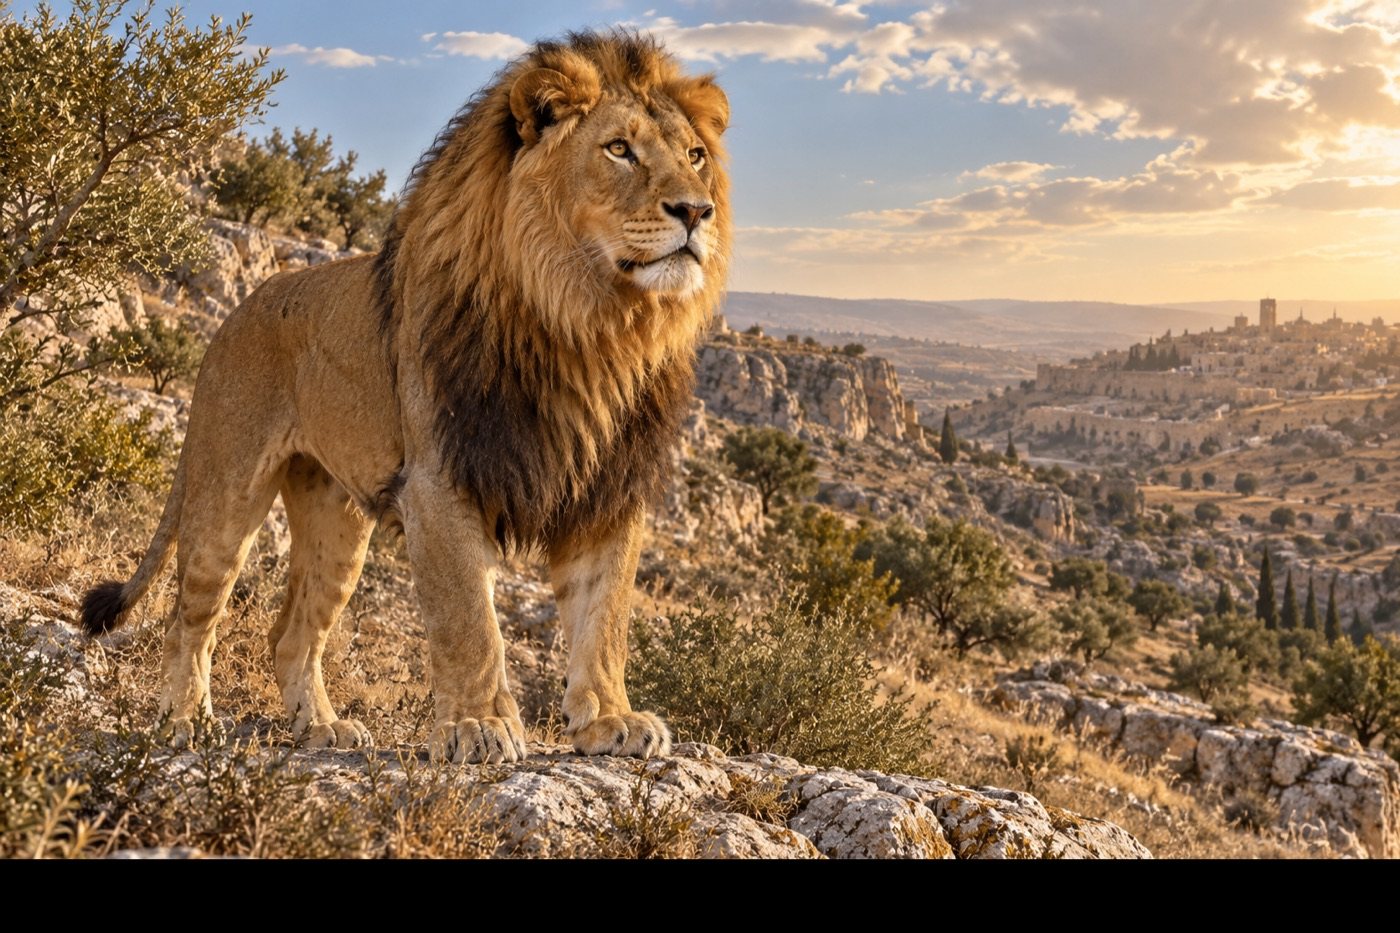
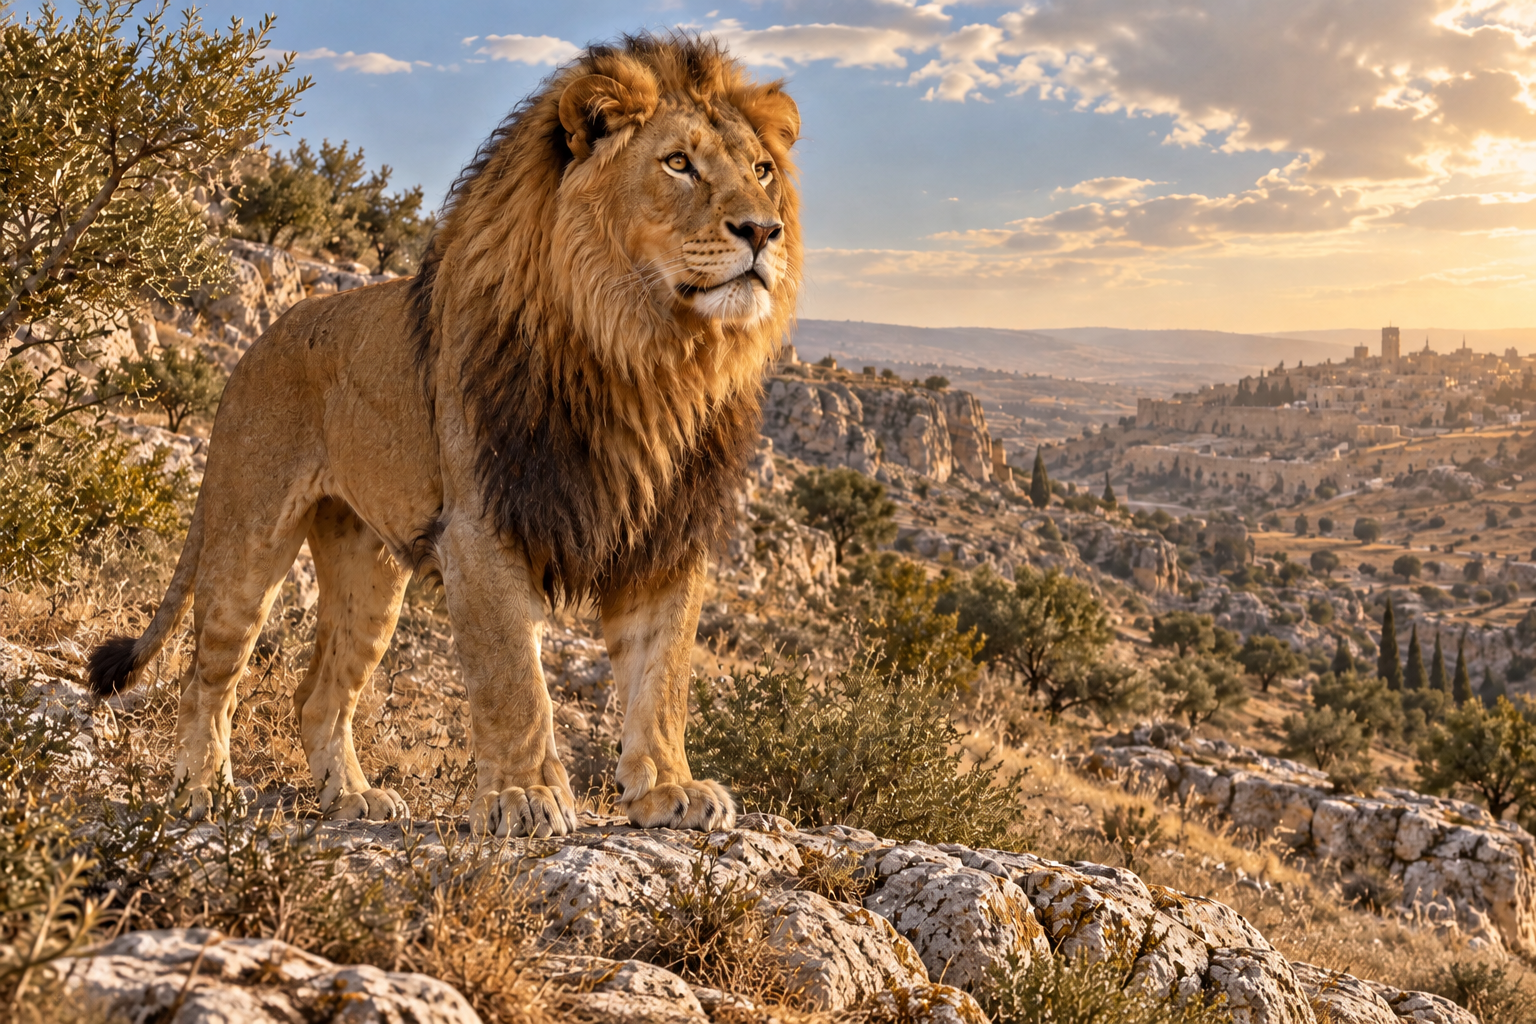
Add collateral branches to genealogy

diff --git a/index.html b/index.html
@@ -803,6 +803,7 @@
     .extinct-category-title { margin: 0 0 .8rem; color: #24364b; font-size: clamp(1.2rem, 2.5vw, 1.7rem); letter-spacing: -.025em; }
     .extinct-card { min-width: 0; overflow: hidden; border: 1px solid var(--border); border-radius: 16px; background: rgba(255,255,255,.97); box-shadow: 0 9px 22px rgba(26,48,77,.07); }
     .extinct-card-image { display: block; width: 100%; aspect-ratio: 16 / 10; object-fit: contain; background: #e7edf4; }
+    #ascended-view .extinct-card-image { height: auto; aspect-ratio: auto; object-fit: contain; object-position: center; }
     .bilirubin-figure { max-width: 390px; margin: .8rem auto; padding: .45rem; border: 1px solid var(--border); border-radius: 12px; background: #f7f9f7; }
     .bilirubin-figure img { display: block; width: 100%; height: auto; }
     .bilirubin-figure figcaption { margin-top: .35rem; color: var(--text2); font-size: .72rem; line-height: 1.4; }
@@ -873,6 +874,15 @@
     .genealogy-jesus { width: min(330px, 100%); display: flex; flex-direction: column; justify-content: center; text-align: center; background: linear-gradient(145deg, #fff8ed, #fff); border-color: #e9bda6; }
     .genealogy-jesus h3 { font-size: 1.45rem; color: #7e391f; }
     .genealogy-jesus .genealogy-name { align-self: center; font-size: .82rem; }
+    .genealogy-sibling-groups { max-width: 1120px; margin: .75rem auto 2rem; padding: 1.15rem; border: 1px solid var(--border); border-radius: var(--radius); background: rgba(255,255,255,.94); box-shadow: var(--shadow); }
+    .genealogy-sibling-groups > h3 { margin: 0; font-size: 1.25rem; }
+    .genealogy-sibling-intro { margin: .35rem 0 1rem; color: var(--text2); }
+    .genealogy-sibling-grid { display: grid; grid-template-columns: repeat(2, minmax(0, 1fr)); gap: .8rem; }
+    .genealogy-sibling-card { min-width: 0; padding: .9rem; border: 1px solid #e4eaf1; border-radius: 13px; background: #fbfcfe; }
+    .genealogy-sibling-card h4 { margin: 0 0 .4rem; color: #293d54; font-size: 1rem; }
+    .genealogy-sibling-card p { margin: 0; color: var(--text2); font-size: .88rem; line-height: 1.5; }
+    .genealogy-sibling-refs { display: flex; flex-wrap: wrap; gap: .35rem .8rem; margin-top: .65rem; }
+    .genealogy-sibling-refs a { color: #9b4829; font-size: .78rem; font-weight: 800; text-underline-offset: 2px; }
     .family-tree { position: relative; width: min(760px, 100%); margin: 0 auto; display: flex; flex-direction: column; align-items: center; }
     .genealogy-scroll > .genealogy-flow { display: none; }
     .family-tree { counter-reset: main-generation; }
@@ -981,6 +991,8 @@
       .genealogy-names { column-gap: 1.15rem; }
       .genealogy-branch-grid { grid-template-columns: 1fr; }
       .family-tree { width: 100%; }
+      .genealogy-sibling-groups { margin: .5rem 0 1.5rem; padding: .85rem; }
+      .genealogy-sibling-grid { grid-template-columns: 1fr; }
       .tree-branches { overflow-x: auto; width: 100%; padding-bottom: .5rem; }
       .tree-siblings { min-width: 570px; padding: 0 .8rem 26px; }
       .tree-parents { grid-template-columns: repeat(2, minmax(0, 1fr)); width: 100%; min-width: 0; gap: .7rem; padding: 28px 0 26px; }
@@ -1580,8 +1592,8 @@
 <section class="genealogy-view" id="genealogy-view" hidden aria-labelledby="genealogy-title">
   <div class="genealogy-intro">
     <h2 id="genealogy-title">Árbol genealógico: de Adán a Jesús</h2>
-    <p>Un recorrido visual por las genealogías bíblicas. Desde David, Mateo y Lucas presentan dos trazados distintos hacia Jesús; se muestran en paralelo para respetar cada texto. Moisés y Elías no aparecen porque fueron profetas, no antepasados de Jesús.</p>
-    <p class="genealogy-disclaimer"><b>Cómo leerlo:</b> cada flecha significa “padre o antepasado → hijo o descendiente”; no representa hermanos. La primera parte sigue la cadena compartida hasta David. Después se abren las dos genealogías canónicas: Mateo 1 sigue la línea real por Salomón; Lucas 3 pasa por Natán y asciende de Jesús hasta Adán.</p>
+    <p>Un recorrido visual por las genealogías bíblicas. Desde David, Mateo y Lucas presentan dos trazados distintos hacia Jesús; se muestran en paralelo para respetar cada texto. Debajo se agregan hermanos y ramas familiares laterales, separadas del tronco directo.</p>
+    <p class="genealogy-disclaimer"><b>Cómo leerlo:</b> cada flecha significa “padre o antepasado → hijo o descendiente”; no representa hermanos. La primera parte sigue la cadena compartida hasta David. Después se abren las dos genealogías canónicas: Mateo 1 sigue la línea real por Salomón; Lucas 3 pasa por Natán y asciende de Jesús hasta Adán. Las familias complementarias no implican que cada persona pertenezca a la línea directa.</p>
   </div>
 
   <div class="genealogy-scroll" aria-label="Desplazá horizontalmente para recorrer el árbol genealógico">
@@ -1697,6 +1709,42 @@
       </article>
     </div>
   </div>
+  <section class="genealogy-sibling-groups" aria-labelledby="genealogy-siblings-title">
+    <h3 id="genealogy-siblings-title">Hermanos y ramas familiares</h3>
+    <p class="genealogy-sibling-intro">Ramas colaterales mencionadas en los textos; se distinguen del linaje principal que conecta con Jesús.</p>
+    <div class="genealogy-sibling-grid">
+      <article class="genealogy-sibling-card">
+        <h4>Caín, Abel y Set</h4>
+        <p>Génesis nombra a Caín y Abel, y luego a Set. Caín mata a Abel; la genealogía que continúa en el árbol sigue la descendencia de Set. El texto también menciona otros hijos e hijas de Adán y Eva sin nombrarlos.</p>
+        <div class="genealogy-sibling-refs"><a href="lectura/?obra=rvr1909-genesis&amp;capitulo=4#pasaje-4-1">Génesis 4:1–26</a><a href="lectura/?obra=rvr1909-genesis&amp;capitulo=5#pasaje-5-3">Génesis 5:3–4</a></div>
+      </article>
+      <article class="genealogy-sibling-card">
+        <h4>Ismael e Isaac</h4>
+        <p>Hijos de Abraham con madres distintas: Ismael, hijo de Agar, e Isaac, hijo de Sara. Isaac es la rama que continúa en el tronco genealógico de arriba; Ismael forma otra descendencia.</p>
+        <div class="genealogy-sibling-refs"><a href="lectura/?obra=rvr1909-genesis&amp;capitulo=16#pasaje-16-15">Génesis 16:15–16</a><a href="lectura/?obra=rvr1909-genesis&amp;capitulo=21#pasaje-21-1">Génesis 21:1–13</a></div>
+      </article>
+      <article class="genealogy-sibling-card">
+        <h4>Jacob y Esaú</h4>
+        <p>Hijos gemelos de Isaac y Rebeca. Jacob recibe el nombre de Israel y continúa la línea de Judá; Esaú encabeza la rama asociada con Edom.</p>
+        <div class="genealogy-sibling-refs"><a href="lectura/?obra=rvr1909-genesis&amp;capitulo=25#pasaje-25-24">Génesis 25:24–34</a><a href="lectura/?obra=rvr1909-genesis&amp;capitulo=36#pasaje-36-1">Génesis 36:1</a></div>
+      </article>
+      <article class="genealogy-sibling-card">
+        <h4>Los hijos de Jacob y Dina</h4>
+        <p>Jacob tuvo doce hijos y una hija nombrada, Dina, con Lea, Raquel, Bilha y Zilpa. Judá es uno de los hermanos y su rama es la que sigue el tronco hasta David. Los hijos: Rubén, Simeón, Leví, Judá, Dan, Neftalí, Gad, Aser, Isacar, Zabulón, José y Benjamín.</p>
+        <div class="genealogy-sibling-refs"><a href="lectura/?obra=rvr1909-genesis&amp;capitulo=29#pasaje-29-31">Génesis 29:31–30:24</a><a href="lectura/?obra=rvr1909-genesis&amp;capitulo=35#pasaje-35-16">Génesis 35:16–26</a></div>
+      </article>
+      <article class="genealogy-sibling-card">
+        <h4>Moisés, Aarón y Miriam</h4>
+        <p>Hermanos, hijos de Amram y Jocabed. Aarón y Miriam aparecen junto a Moisés en el relato del Éxodo; son una familia importante, pero no antepasados de Jesús en las genealogías de Mateo y Lucas.</p>
+        <div class="genealogy-sibling-refs"><a href="lectura/?obra=rvr1909-exodo&amp;capitulo=2#pasaje-2-1">Éxodo 2:1–10</a><a href="lectura/?obra=rvr1909-exodo&amp;capitulo=15#pasaje-15-20">Éxodo 15:20–21</a><a href="lectura/?obra=rvr1909-numeros&amp;capitulo=26#pasaje-26-59">Números 26:59</a></div>
+      </article>
+      <article class="genealogy-sibling-card">
+        <h4>Los hermanos y hermanas de Jesús</h4>
+        <p>Marcos nombra a Santiago, José, Judas y Simón, y menciona hermanas sin dar sus nombres. Los Evangelios los llaman hermanos; las tradiciones cristianas difieren sobre el parentesco exacto, así que aquí no se impone una interpretación única.</p>
+        <div class="genealogy-sibling-refs"><a href="lectura/?obra=rvr1909-marcos&amp;capitulo=6#pasaje-6-3">Marcos 6:3</a><a href="lectura/?obra=rvr1909-mateo&amp;capitulo=13#pasaje-13-55">Mateo 13:55–56</a></div>
+      </article>
+    </div>
+  </section>
 </section>
 
 <footer>
